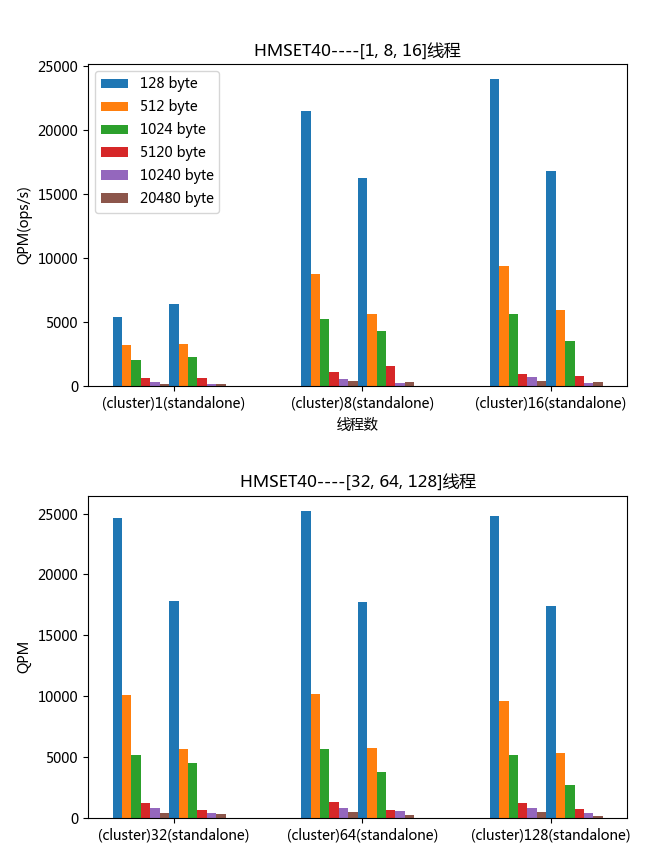
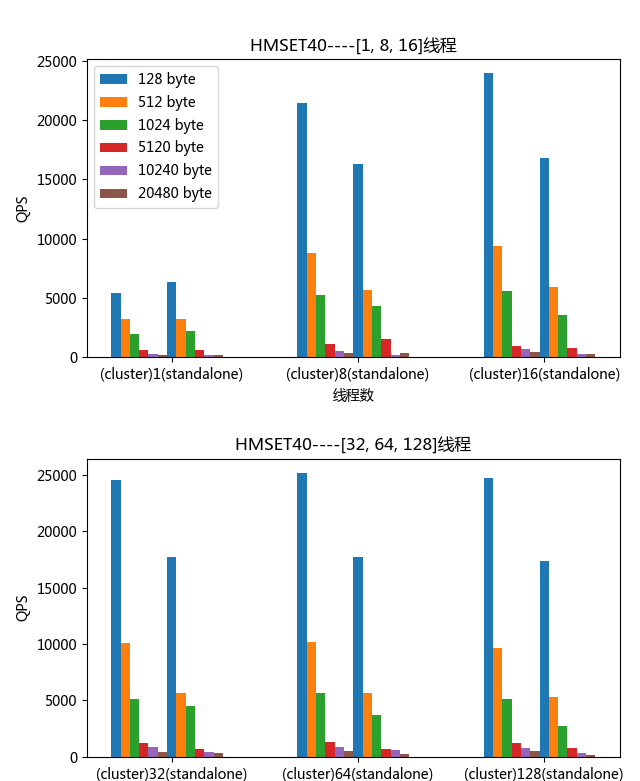
fix bug

diff --git a/redis_benchmark/paraseresout.py b/redis_benchmark/paraseresout.py
@@ -127,7 +127,7 @@ def draw_bar_picture():
         for i in bench_size_list:
             plot.bar(x_map[str(i)],map1[i],barwith,label=str(i)+" byte")
         plot.title(str(optemp)+"----" + str(group1)+"线程")
-        plot.ylabel("QPM(ops/s)")
+        plot.ylabel("QPS")
         plot.xlabel("线程数")
         plot.xticks([1,2,3],["(cluster)1(standalone)","(cluster)8(standalone)","(cluster)16(standalone)"])
         plot.legend()
@@ -139,7 +139,7 @@ def draw_bar_picture():
         for i in bench_size_list:
             plot.bar(x_map[str(i)],map2[i],barwith,label=str(i)+" byte")
         plot.title(str(optemp)+"----" + str(group2)+"线程")
-        plot.ylabel("QPM")
+        plot.ylabel("QPS")
         plot.xlabel("线程数")
         plot.xticks([1,2,3],["(cluster)32(standalone)","(cluster)64(standalone)","(cluster)128(standalone)"])
         #plot.legend()
